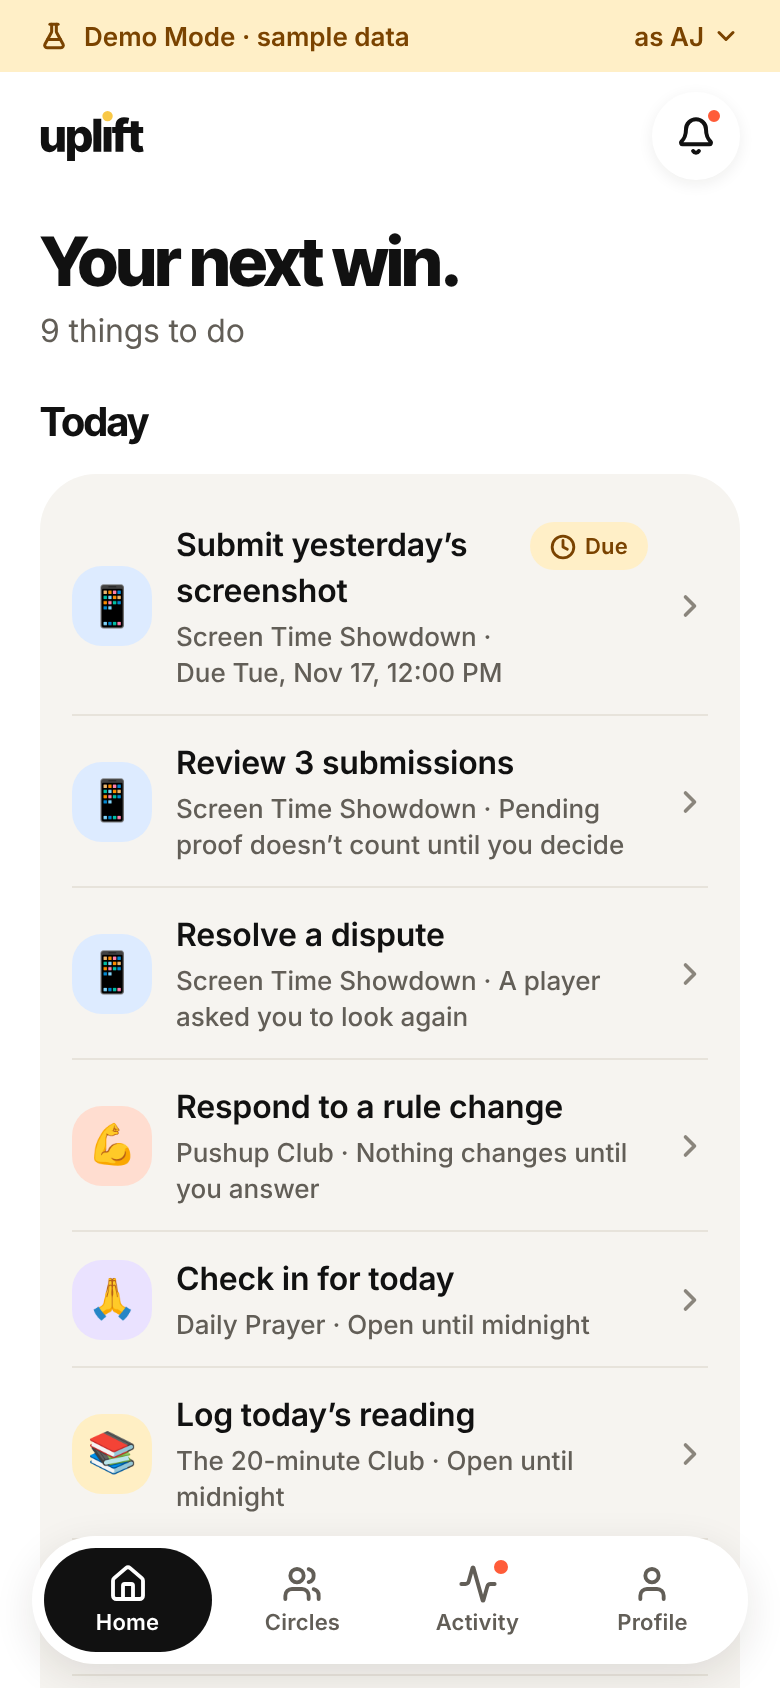
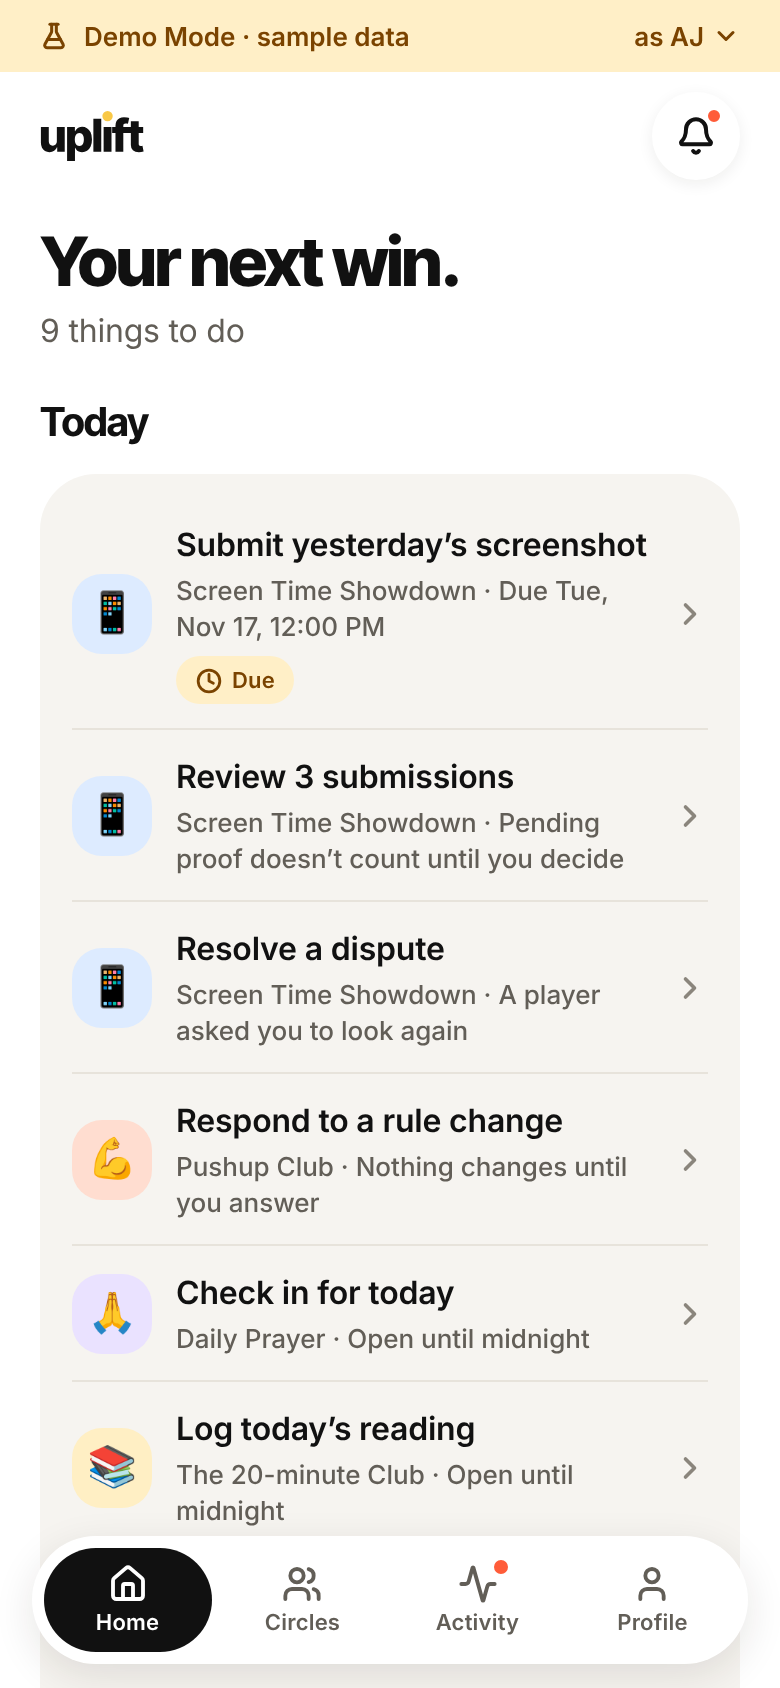
Re-shot screenshots after layout fixes; visual review notes
Claude-Session: https://claude.ai/code/session_01RvcYBmc9PTUB94qQ4VAk4J

diff --git a/docs/BUILD_STATUS.md b/docs/BUILD_STATUS.md
@@ -78,4 +78,11 @@ See `README.md` section 3 and `docs/RELEASE_CHECKLIST.md` track A: a hosted Supa
 
 ## Visual review
 
-_Filled in after the screenshot pass._
+All 21 screens were captured at 390×844 and 320×568 and every image was looked
+at. Design rules held on every screen (white background, warm cards, black
+primary action, Demo banner, no purple or lime). Seven layout defects were found,
+mostly at 320px; fixes were re-shot and confirmed for the sample-image watermark
+(now a band below the total), the Home "Due" row, the Circle card's Owner pill
+and the pinned footer button. Left as is: the wizard's step pills and the review
+filter row scroll horizontally by design; only the first viewport of long
+screens was captured.
